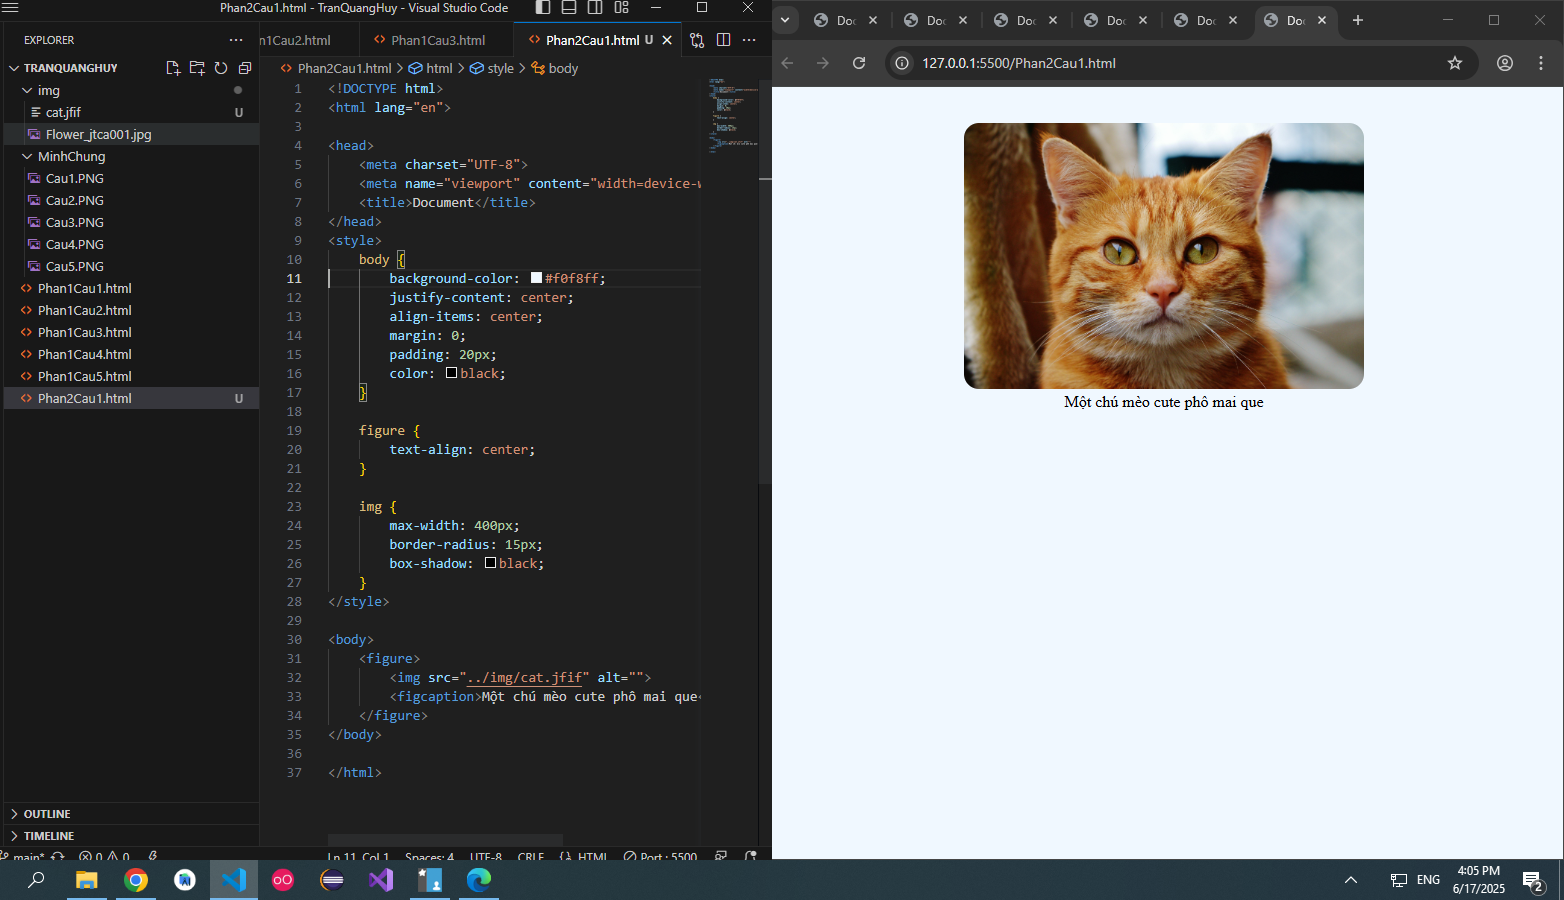
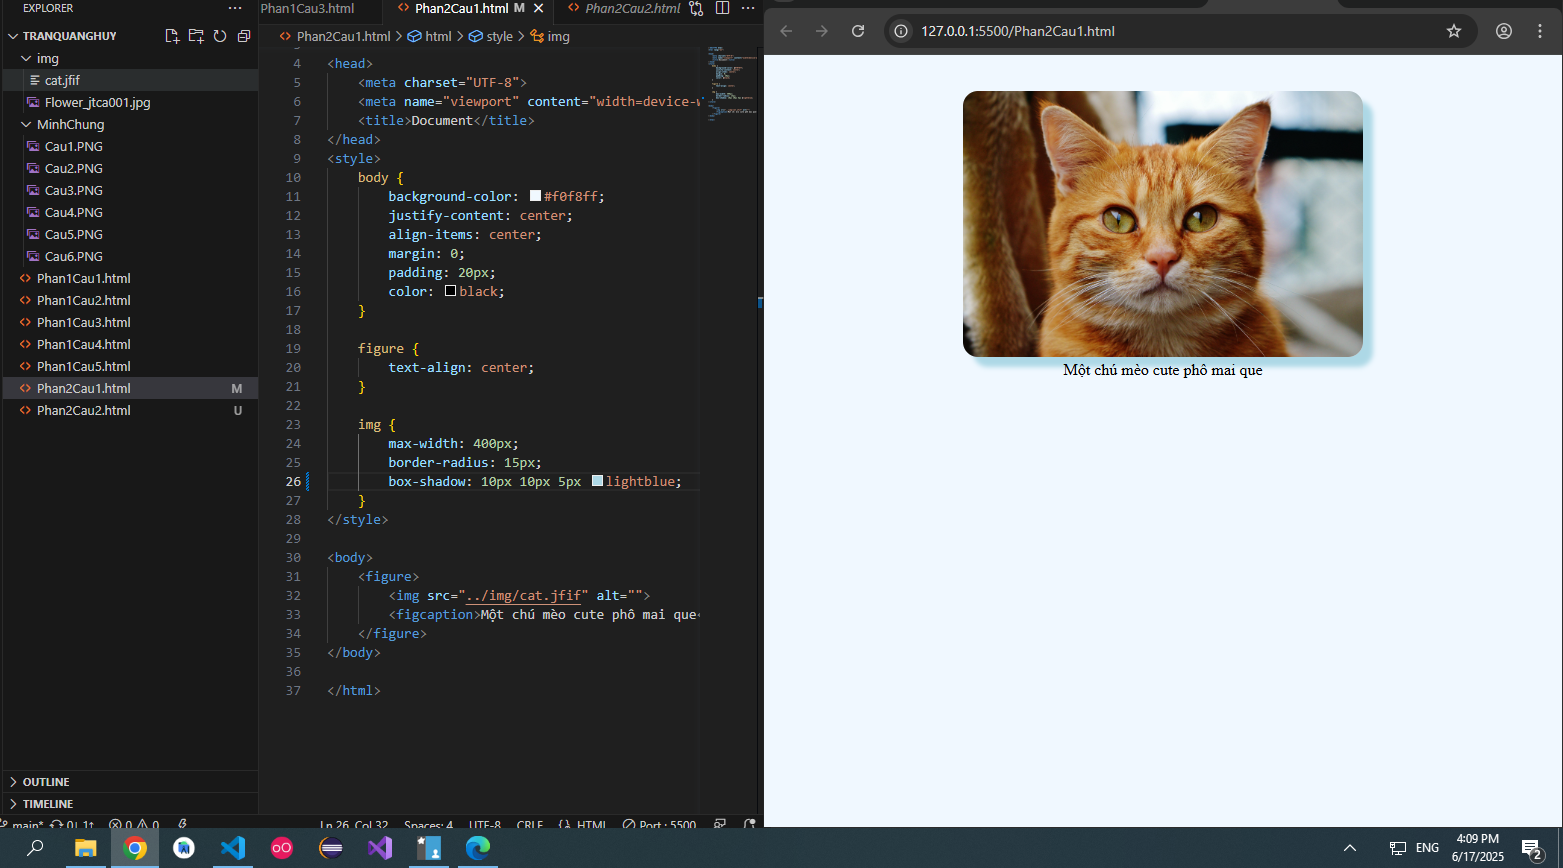
Update câu 6 và mc câu 6

diff --git a/Phan2Cau1.html b/Phan2Cau1.html
@@ -23,7 +23,7 @@
     img {
         max-width: 400px;
         border-radius: 15px;
-        box-shadow: black;
+        box-shadow: 10px 10px 5px lightblue;
     }
 </style>
 
